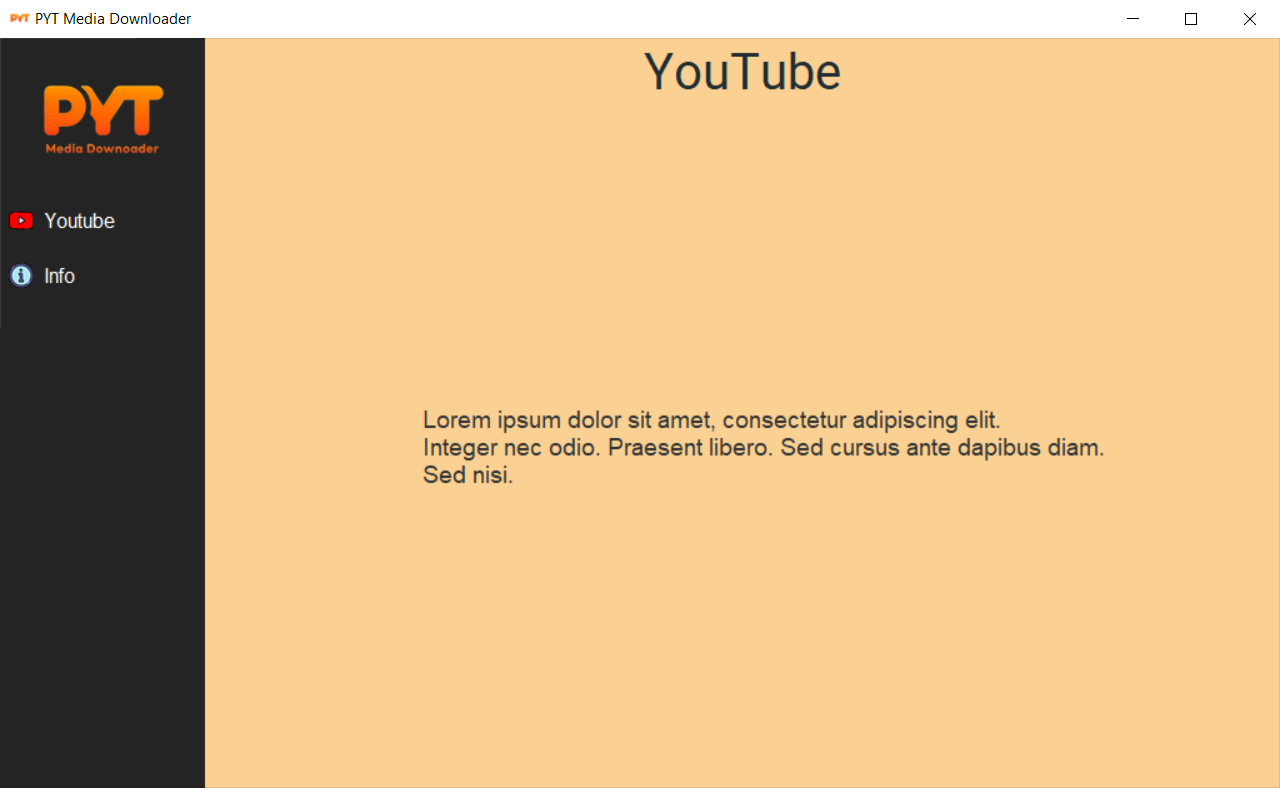
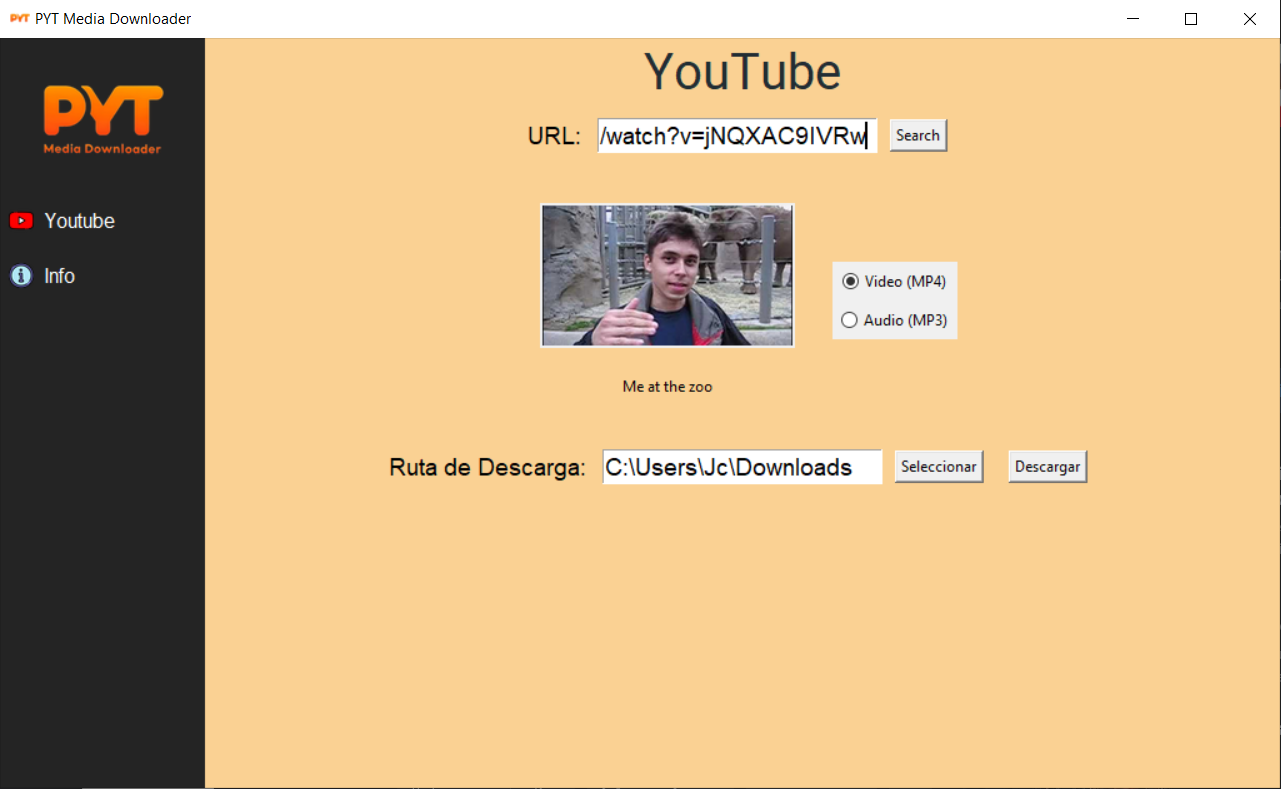
Dowload funcionality

diff --git a/forms/form_yt.py b/forms/form_yt.py
@@ -1,10 +1,19 @@
 import tkinter as tk
+from tkinter import ttk
+from tkinter import filedialog
 from config import COLOR_CUERPO_PRINCIPAL
 from PIL import Image, ImageTk
 from pytube import YouTube
 from io import BytesIO
 import requests
 import re
+import os
+
+#
+# 
+#
+#
+#
 
 class FormYTDesign():
     def __init__(self, panel_principal):
@@ -20,7 +29,7 @@ class FormYTDesign():
 
         # Panel Input URL (Etiqueta, input y botón)
         self.frame_input = tk.Frame(panel_principal, bg=COLOR_CUERPO_PRINCIPAL)
-        self.frame_input.pack(side=tk.TOP, fill='both', padx=20, pady=10)
+        self.frame_input.pack(side=tk.TOP, padx=20, pady=10)
         self.label_url = tk.Label(self.frame_input, text="URL:", font=("Arial", 14), bg=COLOR_CUERPO_PRINCIPAL)
         self.label_url.pack(side=tk.LEFT, padx=(0, 10))
         self.entry_informacion = tk.Entry(self.frame_input, font=("Arial", 14))
@@ -28,11 +37,16 @@ class FormYTDesign():
         self.boton_mostrar_info = tk.Button(self.frame_input, text="Search", command=self.search_url)
         self.boton_mostrar_info.pack(side=tk.LEFT, padx=10)
 
-        # Miniatura y opciones
+        # Panel de log para mensajes
+        self.log_panel = tk.Frame(panel_principal, bg=COLOR_CUERPO_PRINCIPAL)
+        self.log_panel.pack(side=tk.BOTTOM, fill=tk.X)
+        self.log_label = tk.Label(self.log_panel, text="", fg="red", bg=COLOR_CUERPO_PRINCIPAL)
+        self.log_label.pack(side=tk.LEFT, padx=10)
 
+    # Funcionamiento del botón de búsqueda
     def search_url(self):
         url = self.entry_informacion.get()
-        if self.validar_url_youtube(url):
+        if self.validate_url_youtube(url):
             try:
                 video = YouTube(url)
                 image_url = video.thumbnail_url
@@ -43,10 +57,12 @@ class FormYTDesign():
         else:
             self.mostrar_mensaje("URL no válida")
 
-    def validar_url_youtube(self, url):
+    # Comprueba si la url corresponde youtube
+    def validate_url_youtube(self, url):
         regex = r'(https?://)?(www\.)?(youtube\.com|youtu\.?be)/.+$'
         return re.match(regex, url) is not None
 
+    # Muestra la miniatura y titulo del video
     def show_video_info(self, image_url, title_url):
         response = requests.get(image_url)
         img_data = response.content
@@ -54,23 +70,85 @@ class FormYTDesign():
         img.thumbnail((200, 200), Image.Resampling.LANCZOS)
         img = ImageTk.PhotoImage(img)
 
-        if hasattr(self, 'miniatura_label'):
-            self.miniatura_label.destroy()
-        if hasattr(self, 'titulo_label'):
-            self.titulo_label.destroy()
+        if hasattr(self, 'video_options'):
+            self.video_options.destroy()
 
-        self.miniatura_label = tk.Label(self.panel_principal, image=img)
-        self.miniatura_label.image = img  # mantener referencia
-        self.miniatura_label.pack(side=tk.LEFT, pady=10)
+        self.video_options = tk.Frame(self.panel_principal, bg=COLOR_CUERPO_PRINCIPAL)
+        self.video_options.pack(padx=20, pady=10)
 
-        # Mostrar el título debajo de la miniatura
-        self.titulo_label = tk.Label(self.panel_principal, text=title_url)
-        self.titulo_label.pack(side=tk.BOTTOM, pady=10)
+        self.video_info = tk.Frame(self.video_options, bg=COLOR_CUERPO_PRINCIPAL)
+        self.video_info.pack(side=tk.LEFT, padx=20, pady=10)
+
+        # Miniatura
+        self.youtube_thumbnail = tk.Label(self.video_info, image=img)
+        self.youtube_thumbnail.image = img  # mantener referencia
+        self.youtube_thumbnail.pack(side=tk.TOP, pady=10)
+
+        # Titulo video
+        self.youtube_title = tk.Label(self.video_info, text=title_url, bg=COLOR_CUERPO_PRINCIPAL)
+        self.youtube_title.pack(side=tk.BOTTOM, pady=10)
+
+        # Botones Video/Audio
+        self.right_panel = tk.Frame(self.video_options)
+        self.right_panel.pack(side=tk.RIGHT, padx=10)
+        self.formato_seleccionado = tk.StringVar(value="mp4") # Variable para almacenar la selección
+        rb_mp4 = ttk.Radiobutton(self.right_panel, text="Video (MP4)", variable=self.formato_seleccionado, value="mp4")
+        rb_mp4.pack(side=tk.TOP, padx=5, pady=5)
+        rb_mp3 = ttk.Radiobutton(self.right_panel, text="Audio (MP3)", variable=self.formato_seleccionado, value="mp3")
+        rb_mp3.pack(side=tk.TOP, padx=5, pady=5)
+
+        # Verificar si ya existe el panel de descarga y destruirlo si es necesario
+        if hasattr(self, 'download_panel'):
+            self.download_panel.destroy()
+
+        # Crear el panel para la selección de la ruta de descarga
+        self.download_panel = tk.Frame(self.panel_principal, bg=COLOR_CUERPO_PRINCIPAL)
+        self.download_panel.pack(side=tk.TOP, padx=20, pady=10)
+
+        self.label_download_path = tk.Label(self.download_panel, text="Ruta de Descarga:", font=("Arial", 14), bg=COLOR_CUERPO_PRINCIPAL)
+        self.label_download_path.pack(side=tk.LEFT, padx=(0, 10))
+
+        self.entry_download_path = tk.Entry(self.download_panel, font=("Arial", 14))
+        self.entry_download_path.pack(side=tk.LEFT, fill='both', expand=True)
+        self.entry_download_path.insert(0, os.path.join(os.path.expanduser('~'), 'Downloads'))
+
+        self.button_select_path = tk.Button(self.download_panel, text="Seleccionar", command=self.select_download_path)
+        self.button_select_path.pack(side=tk.LEFT, padx=10)
+
+        # Botón de descarga
+        self.button_download = tk.Button(self.download_panel, text="Descargar", command=self.download_video)
+        self.button_download.pack(side=tk.LEFT, padx=10)
 
     def mostrar_mensaje(self, mensaje):
-        if hasattr(self, 'miniatura_label'):
-            self.miniatura_label.destroy()
-        if hasattr(self, 'titulo_label'):
-            self.titulo_label.destroy()
-        self.miniatura_label = tk.Label(self.panel_principal, text=mensaje)
-        self.miniatura_label.pack(side=tk.LEFT, pady=10)
+        # Actualizar el texto del log
+        self.log_label.config(text=mensaje)
+
+        # Auto-limpiar el mensaje después de un tiempo
+        self.log_label.after(5000, lambda: self.log_label.config(text=""))
+
+    def select_download_path(self):
+        folder_selected = filedialog.askdirectory()
+        if folder_selected:
+            self.entry_download_path.delete(0, tk.END)
+            self.entry_download_path.insert(0, folder_selected)
+
+    def download_video(self):
+        url = self.entry_informacion.get()
+        download_path = self.entry_download_path.get()
+        formato = self.formato_seleccionado.get()
+
+        if self.validate_url_youtube(url):
+            try:
+                video = YouTube(url)
+                if formato == "mp4":
+                    video_stream = video.streams.get_highest_resolution()
+                else:  # formato == "mp3"
+                    video_stream = video.streams.filter(only_audio=True).first()
+
+                # Descargar el video
+                video_stream.download(output_path=download_path)
+                self.mostrar_mensaje("Descarga completada en: " + download_path)
+            except Exception as e:
+                self.mostrar_mensaje("Error: " + str(e))
+        else:
+            self.mostrar_mensaje("URL no válida")

diff --git a/README.md b/README.md
@@ -1,6 +1,6 @@
 # PYT Media Downloader
 PYT is a project created as a training tool to download video or audio from various platforms. 
-![Logo](images/pytLogo.png)
+![Logo](images/pytLogo2.png)
 ## Screenshots
 ![Screenshot](images/cap.png)
 
